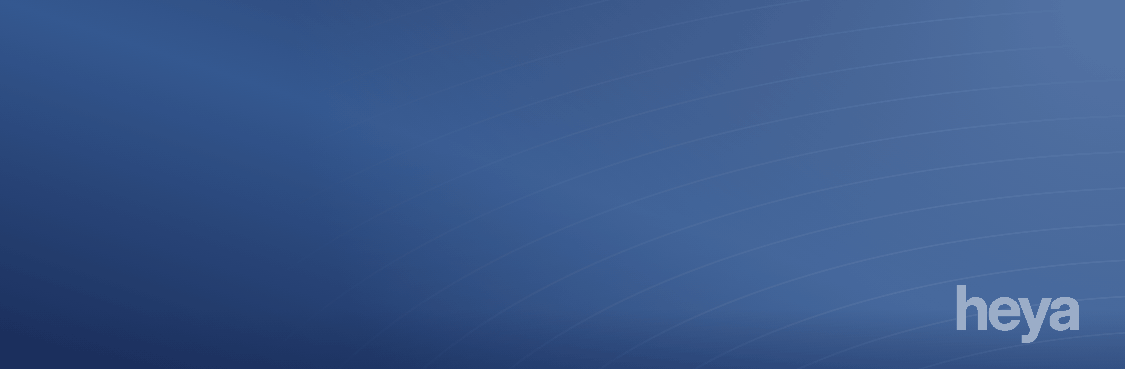
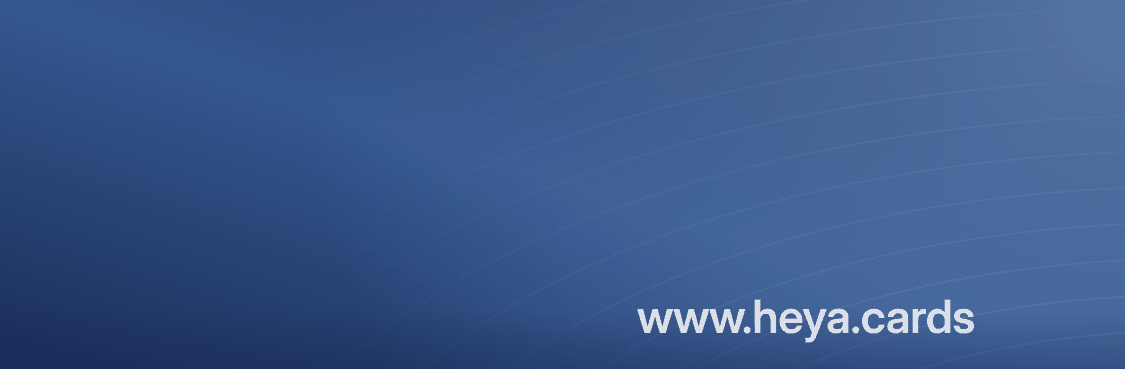
Wallet pass: www.heya.cards on the artwork, nothing top right
Wallet uppercases and truncates the header label, and crops the strip's left and right
edges on wider phones. The address now sits on the artwork inside the area every phone
shows, and the header field is gone.

Claude-Session: https://claude.ai/code/session_01TiSAtMhdV7PFwmay8D32Zq

Changed region(s): [[0.56, 0.7751, 0.9644, 0.9241]]

diff --git a/lib/server/wallet.ts b/lib/server/wallet.ts
@@ -177,8 +177,6 @@ export function createWalletPass(
 
   pass.type = "storeCard";
   // Top right, next to the card's name: where it came from, so people who see it can get one.
-  // Shown in the small label line so it stays quiet; the value is left empty on purpose.
-  pass.headerFields.push({ key: "site", label: "www.heya.cards", value: "" });
   pass.primaryFields.push({ key: "name", label: "", value: name });
   if (card.type === "universal") {
     if (card.jobTitle.trim()) pass.secondaryFields.push({ key: "role", label: "ROLE", value: card.jobTitle.trim() });

diff --git a/tests/wallet.test.ts b/tests/wallet.test.ts
@@ -128,7 +128,7 @@ test("Wallet bundle has a verified detached signature and the exact UTF-8 QR pay
   assert.equal(pass.formatVersion, 1);
   assert.equal(pass.logoText, "Universal");
   assert.equal(pass.storeCard.primaryFields[0].value, draft.name);
-  assert.equal(pass.storeCard.headerFields[0].label, "www.heya.cards");
+  assert.equal(pass.storeCard.headerFields?.length ?? 0, 0);
   assert.equal(JSON.stringify(pass).includes(draft.title), false);
   assert.deepEqual(pass.barcodes, [{
     format: "PKBarcodeFormatQR",
